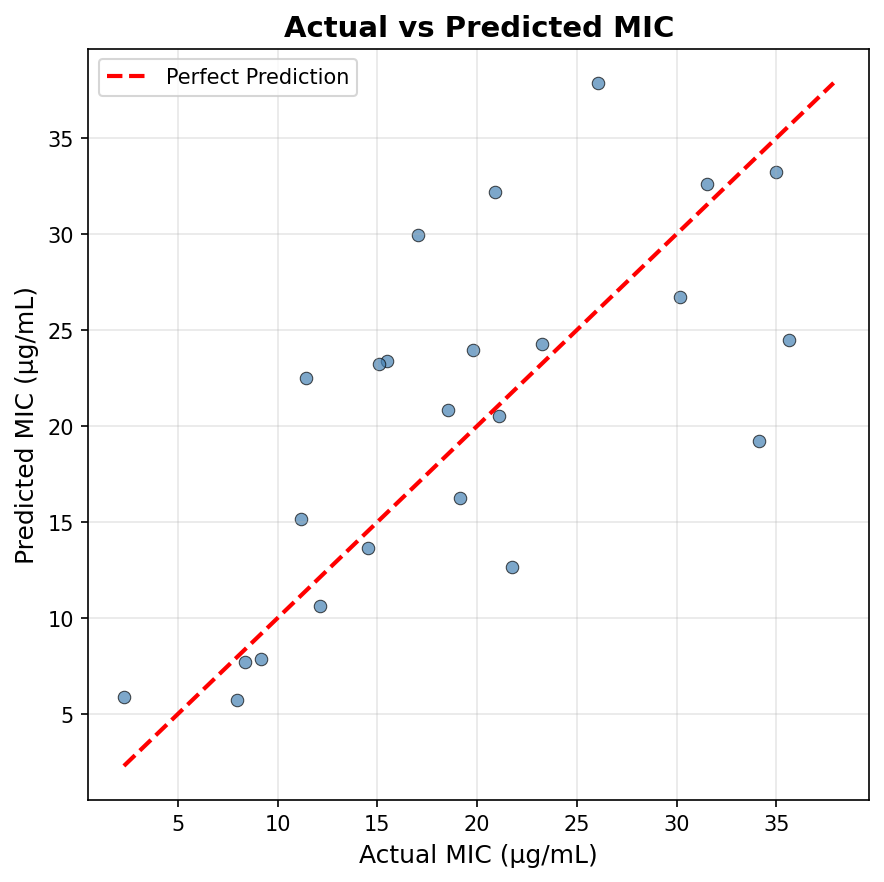
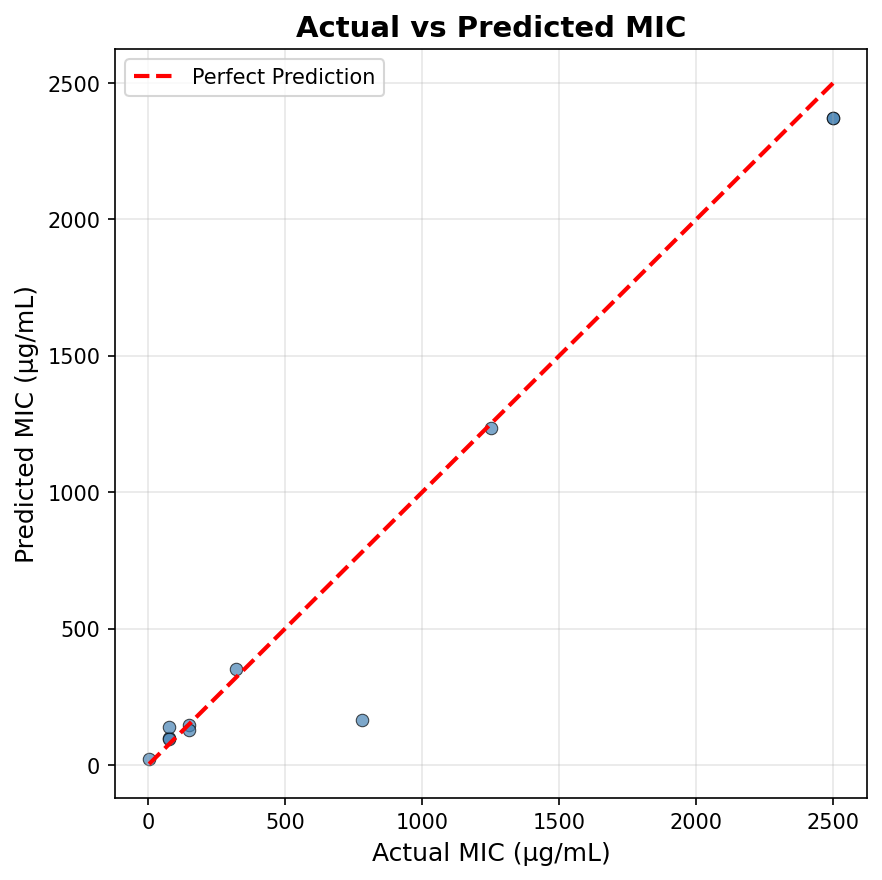
Update model to use real experimental dataset, fix categorical encoding, and generate new evaluation plots

diff --git a/train_model.py b/train_model.py
@@ -4,78 +4,98 @@ import matplotlib.pyplot as plt
 import seaborn as sns
 from sklearn.model_selection import train_test_split
 from sklearn.ensemble import RandomForestRegressor
-from sklearn.preprocessing import LabelEncoder
 from sklearn.metrics import mean_squared_error, r2_score
 
-# Load dataset
-df = pd.read_csv("agnp_120_dataset.csv")
+# 1. Load the REAL dataset
+print("Loading real experimental data...")
+df = pd.read_csv("agnp_dataset.csv")
 
-# Encode categorical features
-le_dict = {}
-df_encoded = df.copy()
-for col in ["shape", "coating", "bacteria", "gram_type"]:
-    le = LabelEncoder()
-    df_encoded[col] = le.fit_transform(df[col])
-    le_dict[col] = le
+# 2. Clean the Data (Handling the blanks!)
+# Drop rows where our target (MIC_ug_ml) is missing. We can't train on blank answers.
+df = df.dropna(subset=["MIC_ug_ml"])
 
-# Features & target
-X = df_encoded.drop(["MIC_ug_ml", "zone_inhibition_mm"], axis=1)
-y = df_encoded["MIC_ug_ml"]
+# Separate features (X) from the target (y)
+# We also drop the zone columns because they are outcomes, not input properties
+cols_to_drop = ["zone_inhibition_mm", "zone_concentration_ug_ml", "MIC_ug_ml"]
+X = df.drop(columns=[c for c in cols_to_drop if c in df.columns])
+y = df["MIC_ug_ml"]
 
-# Split data
-X_train, X_test, y_train, y_test = train_test_split(X, y, test_size=0.2, random_state=42)
+# 3. Handle missing values in Features (Imputation)
+# Fill missing particle sizes with the median size of the dataset
+if X["particle_size_nm"].isnull().sum() > 0:
+    median_size = X["particle_size_nm"].median()
+    X["particle_size_nm"] = X["particle_size_nm"].fillna(median_size)
+    print(f"Filled missing particle sizes with median: {median_size} nm")
 
-# Train Random Forest model
+# Fill missing categorical data with 'Unknown'
+categorical_columns = ["shape", "coating", "bacteria", "gram_type"]
+for col in categorical_columns:
+    if col in X.columns:
+        X[col] = X[col].fillna("Unknown")
+
+# 4. One-Hot Encoding
+# Converts text categories into true/false numeric columns
+X_encoded = pd.get_dummies(X, columns=categorical_columns, drop_first=True)
+
+# 5. Split data (80% for training, 20% for testing)
+X_train, X_test, y_train, y_test = train_test_split(
+    X_encoded, y, test_size=0.2, random_state=42)
+
+# 6. Train Random Forest model
+print("Training Random Forest model on real data...")
 model = RandomForestRegressor(n_estimators=200, random_state=42)
 model.fit(X_train, y_train)
 
-# Predictions
+# 7. Predictions & Evaluation
 y_pred = model.predict(X_test)
 
-# Evaluation metrics
 mse = mean_squared_error(y_test, y_pred)
 r2 = r2_score(y_test, y_pred)
 
-print("=" * 50)
-print("ML MODEL PERFORMANCE")
+print("\n" + "=" * 50)
+print("ML MODEL PERFORMANCE (REAL DATA)")
 print("=" * 50)
 print(f"Mean Squared Error (MSE): {mse:.4f}")
 print(f"R² Score: {r2:.4f}")
-print(f"RMSE: {np.sqrt(mse):.4f}")
+print(f"RMSE: {np.sqrt(mse):.4f} µg/mL")
 print("=" * 50)
+
+# --- PLOTTING ---
 
 # 1. Feature Importance Plot
 importances = model.feature_importances_
-features = X.columns
+features = X_encoded.columns
 
+# Get the top 10 most important features so the graph isn't too crowded
 feat_df = pd.DataFrame({
     "Feature": features,
     "Importance": importances
-}).sort_values(by="Importance", ascending=False)
+}).sort_values(by="Importance", ascending=False).head(10)
 
-plt.figure(figsize=(8, 5))
+plt.figure(figsize=(10, 6))
 sns.barplot(data=feat_df, y="Feature", x="Importance", palette="viridis")
-plt.title("Feature Importance in Predicting MIC", fontsize=14, fontweight='bold')
+plt.title("Top 10 Feature Importances in Predicting MIC",
+          fontsize=14, fontweight='bold')
 plt.xlabel("Importance Score")
 plt.ylabel("Feature")
 plt.tight_layout()
 plt.savefig("feature_importance.png", dpi=150, bbox_inches="tight")
-print("Plot saved: feature_importance.png")
 
 # 2. Predicted vs Actual Plot
 plt.figure(figsize=(6, 6))
-plt.scatter(y_test, y_pred, alpha=0.7, color='steelblue', edgecolors='black', linewidth=0.5)
+plt.scatter(y_test, y_pred, alpha=0.7, color='steelblue',
+            edgecolors='black', linewidth=0.5)
 plt.xlabel("Actual MIC (µg/mL)", fontsize=12)
 plt.ylabel("Predicted MIC (µg/mL)", fontsize=12)
 plt.title("Actual vs Predicted MIC", fontsize=14, fontweight='bold')
 min_val = min(min(y_test), min(y_pred))
 max_val = max(max(y_test), max(y_pred))
-plt.plot([min_val, max_val], [min_val, max_val], 'r--', linewidth=2, label='Perfect Prediction')
+plt.plot([min_val, max_val], [min_val, max_val], 'r--',
+         linewidth=2, label='Perfect Prediction')
 plt.legend()
 plt.grid(True, alpha=0.3)
 plt.tight_layout()
 plt.savefig("predicted_vs_actual.png", dpi=150, bbox_inches="tight")
-print("Plot saved: predicted_vs_actual.png")
 
 # 3. Residual Distribution Plot
 residuals = y_test - y_pred
@@ -89,8 +109,5 @@ plt.ylabel("Count")
 plt.legend()
 plt.tight_layout()
 plt.savefig("residual_distribution.png", dpi=150, bbox_inches="tight")
-print("Plot saved: residual_distribution.png")
 
-print("\n" + "=" * 50)
-print("TRAINING COMPLETE - All plots generated!")
-print("=" * 50)
+print("\nTRAINING COMPLETE - All plots updated and saved!")
